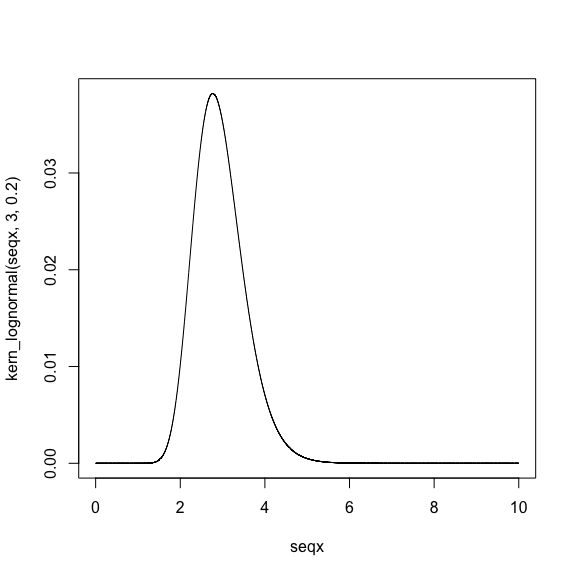
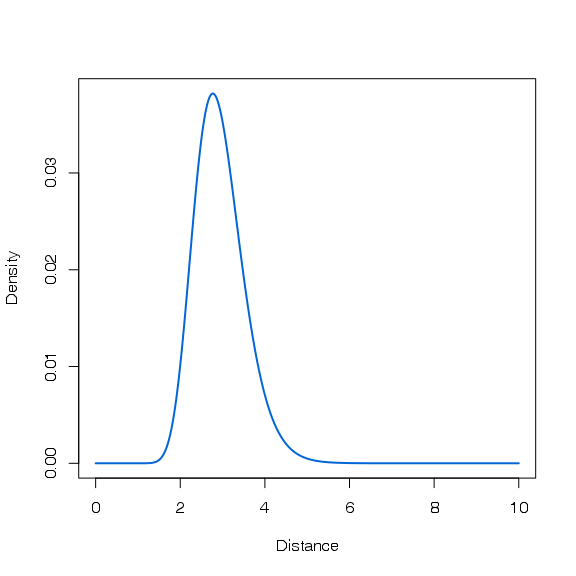
cleaning the package

diff --git a/src/RcppExports.cpp b/src/RcppExports.cpp
@@ -7,7 +7,7 @@ using namespace Rcpp;
 
 // kernels
 int kernels();
-RcppExport SEXP recruitR_kernels() {
+RcppExport SEXP _recruitR_kernels() {
 BEGIN_RCPP
     Rcpp::RObject rcpp_result_gen;
     Rcpp::RNGScope rcpp_rngScope_gen;
@@ -17,7 +17,7 @@ END_RCPP
 }
 // kern_gaussian
 NumericVector kern_gaussian(NumericVector dist, double scal);
-RcppExport SEXP recruitR_kern_gaussian(SEXP distSEXP, SEXP scalSEXP) {
+RcppExport SEXP _recruitR_kern_gaussian(SEXP distSEXP, SEXP scalSEXP) {
 BEGIN_RCPP
     Rcpp::RObject rcpp_result_gen;
     Rcpp::RNGScope rcpp_rngScope_gen;
@@ -29,7 +29,7 @@ END_RCPP
 }
 // kern_exponential
 NumericVector kern_exponential(NumericVector dist, double scal);
-RcppExport SEXP recruitR_kern_exponential(SEXP distSEXP, SEXP scalSEXP) {
+RcppExport SEXP _recruitR_kern_exponential(SEXP distSEXP, SEXP scalSEXP) {
 BEGIN_RCPP
     Rcpp::RObject rcpp_result_gen;
     Rcpp::RNGScope rcpp_rngScope_gen;
@@ -41,7 +41,7 @@ END_RCPP
 }
 // kern_exponential_power
 NumericVector kern_exponential_power(NumericVector dist, double scal, double shap);
-RcppExport SEXP recruitR_kern_exponential_power(SEXP distSEXP, SEXP scalSEXP, SEXP shapSEXP) {
+RcppExport SEXP _recruitR_kern_exponential_power(SEXP distSEXP, SEXP scalSEXP, SEXP shapSEXP) {
 BEGIN_RCPP
     Rcpp::RObject rcpp_result_gen;
     Rcpp::RNGScope rcpp_rngScope_gen;
@@ -54,7 +54,7 @@ END_RCPP
 }
 // kern_2Dt
 NumericVector kern_2Dt(NumericVector dist, double scal, double shap);
-RcppExport SEXP recruitR_kern_2Dt(SEXP distSEXP, SEXP scalSEXP, SEXP shapSEXP) {
+RcppExport SEXP _recruitR_kern_2Dt(SEXP distSEXP, SEXP scalSEXP, SEXP shapSEXP) {
 BEGIN_RCPP
     Rcpp::RObject rcpp_result_gen;
     Rcpp::RNGScope rcpp_rngScope_gen;
@@ -67,7 +67,7 @@ END_RCPP
 }
 // kern_lognormal
 NumericVector kern_lognormal(NumericVector dist, double scal, double shap);
-RcppExport SEXP recruitR_kern_lognormal(SEXP distSEXP, SEXP scalSEXP, SEXP shapSEXP) {
+RcppExport SEXP _recruitR_kern_lognormal(SEXP distSEXP, SEXP scalSEXP, SEXP shapSEXP) {
 BEGIN_RCPP
     Rcpp::RObject rcpp_result_gen;
     Rcpp::RNGScope rcpp_rngScope_gen;
@@ -77,4 +77,19 @@ BEGIN_RCPP
     rcpp_result_gen = Rcpp::wrap(kern_lognormal(dist, scal, shap));
     return rcpp_result_gen;
 END_RCPP
+}
+
+static const R_CallMethodDef CallEntries[] = {
+    {"_recruitR_kernels", (DL_FUNC) &_recruitR_kernels, 0},
+    {"_recruitR_kern_gaussian", (DL_FUNC) &_recruitR_kern_gaussian, 2},
+    {"_recruitR_kern_exponential", (DL_FUNC) &_recruitR_kern_exponential, 2},
+    {"_recruitR_kern_exponential_power", (DL_FUNC) &_recruitR_kern_exponential_power, 3},
+    {"_recruitR_kern_2Dt", (DL_FUNC) &_recruitR_kern_2Dt, 3},
+    {"_recruitR_kern_lognormal", (DL_FUNC) &_recruitR_kern_lognormal, 3},
+    {NULL, NULL, 0}
+};
+
+RcppExport void R_init_recruitR(DllInfo *dll) {
+    R_registerRoutines(dll, NULL, CallEntries, NULL, NULL);
+    R_useDynamicSymbols(dll, FALSE);
 }

diff --git a/README.md b/README.md
@@ -1,26 +1,16 @@
-Overview
-========
-
-Description
------------
+recruitR
+--------
 
 **'recruitR'**: A R package including useful functions for tree recruitment analyses.
 
-At this stage, I have simply I picked up 5 common seeds dispersal kernel in which all are isotropic:
-
-1.  Nathan, R., Klein, E., Robledo-Arnuncio, J. J. & Revilla, E. in Dispersal Ecology and Evolution 186–210 (Oxford University Press, 2012). [doi:10.1093/acprof:oso/9780199608898.003.0015](https://doi.org/10.1093/acprof:oso/9780199608898.003.0015)
-
-<!-- -->
+At this stage, 5 common seeds isotropic dispersal kernels are implemented, they were selected Nathan et al. (2012).
 
     ## Loading recruitR
 
-    ## Warning in setup_ns_exports(pkg, export_all): Objects listed as exports,
-    ## but not present in namespace: kernels
-
-Current statut
+Current status
 --------------
 
-Last 'README' update: 2016-12-16
+Last 'README' update: 2017-11-02
 
 [![Travis](https://travis-ci.org/KevCaz/recruitR.svg?branch=master)](https://travis-ci.org/KevCaz/recruitR) [![Build status](https://ci.appveyor.com/api/projects/status/sk3sbvusvcyy0at0?svg=true)](https://ci.appveyor.com/project/KevCaz/recruitr/build/1.0.7) [![codecov](https://codecov.io/gh/KevCaz/recruitR/branch/master/graphs/badge.svg)](https://codecov.io/gh/KevCaz/recruitR)
 
@@ -47,16 +37,17 @@ A simple call to one on the kernel:
 
 ``` r
 kern_gaussian(4, 3)
-#> [1] 0.005977623
+R>> [1] 0.005977623
 ```
 
-Simple plots:
+### Figure
 
 1.  Gaussian kernel:
 
 ``` r
 seqx <- seq(0,10,0.001)
-plot(seqx, kern_gaussian(seqx, .5), type='l')
+par(las=2, bty='n')
+plot(seqx, kern_gaussian(seqx, .5), type='l', lwd=2, col='#0366d6', xlab='Distance', ylab='Density')
 ```
 
 ![](inst/unnamed-chunk-3-1.png)
@@ -64,15 +55,20 @@ plot(seqx, kern_gaussian(seqx, .5), type='l')
 1.  Log\_normal kernel:
 
 ``` r
-plot(seqx, kern_lognormal(seqx, 3, .2), type='l')
+plot(seqx, kern_lognormal(seqx, 3, .2), type='l', lwd=2, col='#0366d6', xlab='Distance', ylab='Density')
 ```
 
 ![](inst/unnamed-chunk-4-1.png)
 
-1.  Exponential\_powerl kernel:
+1.  Exponential\_power kernel:
 
 ``` r
-plot(seqx, kern_exponential_power(seqx,2,3), type='l')
+plot(seqx, kern_exponential_power(seqx,2,3), type='l', lwd=2, col='#0366d6', xlab='Distance', ylab='Density')
 ```
 
 ![](inst/unnamed-chunk-5-1.png)
+
+References
+----------
+
+1.  Nathan, R., Klein, E., Robledo-Arnuncio, J. J. & Revilla, E. in Dispersal Ecology and Evolution 186–210 (Oxford University Press, 2012). [doi:10.1093/acprof:oso/9780199608898.003.0015](https://doi.org/10.1093/acprof:oso/9780199608898.003.0015)
